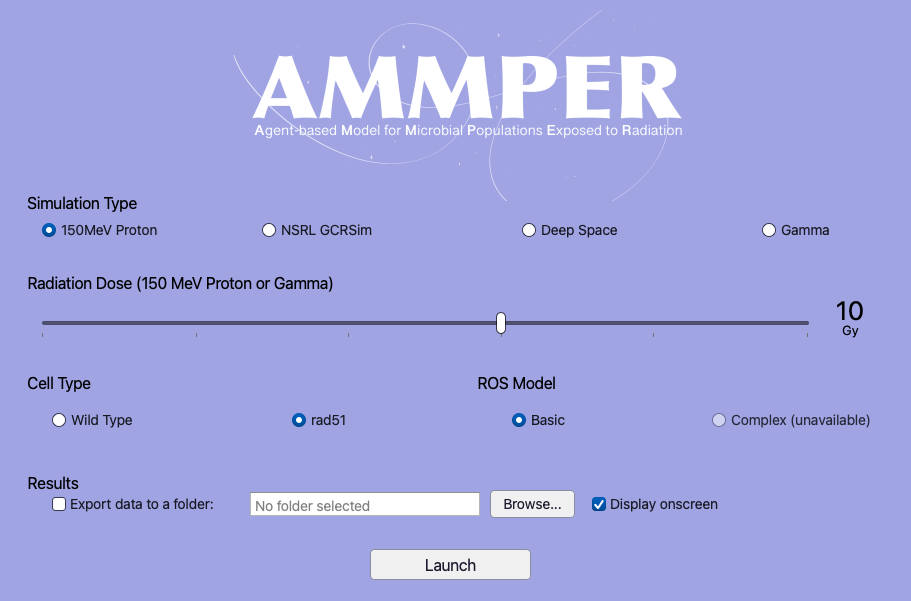
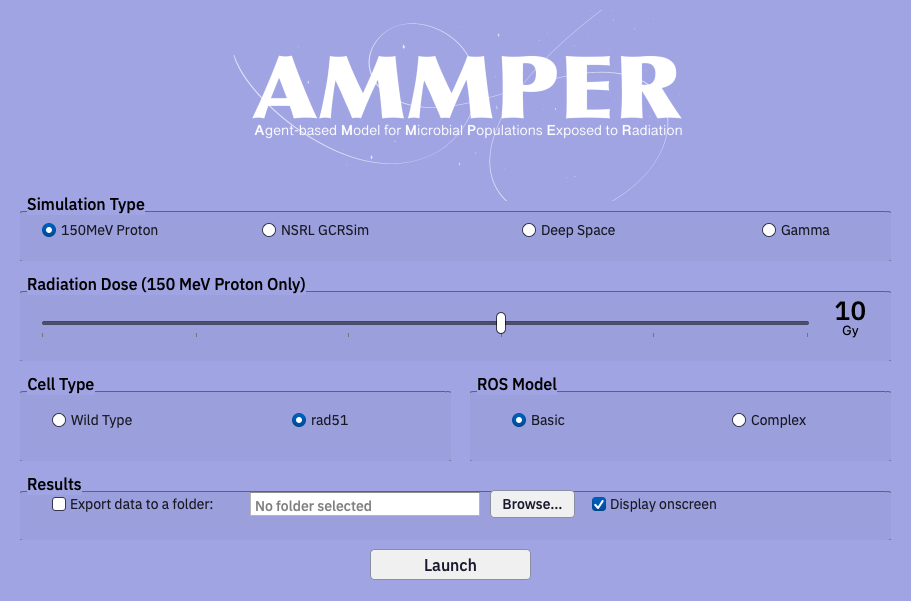
Update GUI screenshots and README title to AMMPER v2

diff --git a/src/ammper/preflight.py b/src/ammper/preflight.py
@@ -1,34 +1,6 @@
 """
 Machine pre-flight checks for AMMPER.
 
-Complex ROS (genROS) emits 82 ROS rows per radiation-deposition event and builds
-its output with a growing ``np.vstack``, so its peak memory scales linearly with
-the dose (about 0.74 GB per Gy for 150 MeV Proton) and its run time grows faster
-than linearly. On a small machine a high-dose Complex ROS run does not fail
-cleanly: it swaps, stalls, or takes the machine down. This module estimates the
-cost of a run *before* it starts and compares it with the memory the machine
-actually has free.
-
-It is deliberately separate from the simulation engine: it imports nothing from
-the engine and changes no simulation behavior. Nothing here is called by the
-engine scripts. ``ammper setup`` prints the audit for the current machine, and
-entry points that offer Complex ROS (the GUI's Launch button, ``ammper run``, ``ammper
-quickstart`` and the bulk scripts) call ``complex_ros_warning()`` to warn the user before a
-run starts (it warns, it never blocks);
-``require_complex_ros_capacity()`` is the strict variant that raises instead.
-
-The constants below were MEASURED (single WT runs, 150 MeV Proton, Complex ROS,
-Apple M-series, 26 GB RAM, 2026-10-07):
-
-    dose    ROS events   whole run   peak RSS
-    2.5 Gy     6,916       15 s       1.9 GB
-    5   Gy    13,832       35 s       3.7 GB
-    10  Gy    27,664      122 s       7.3 GB
-    20/30 Gy: not run; extrapolated by the same model.
-
-Memory is a good predictor (linear in events). Time is hardware dependent and
-is shown for information only; it never blocks a run.
-
 @author: dannyofmiami
 """
 

diff --git a/README.md b/README.md
@@ -1,4 +1,4 @@
-# AMMPER
+# AMMPER v2
 
 <p align="center">
   <img src="images/AMMPER_Logo1.PNG" alt="AMMPER logo" width="420" />
